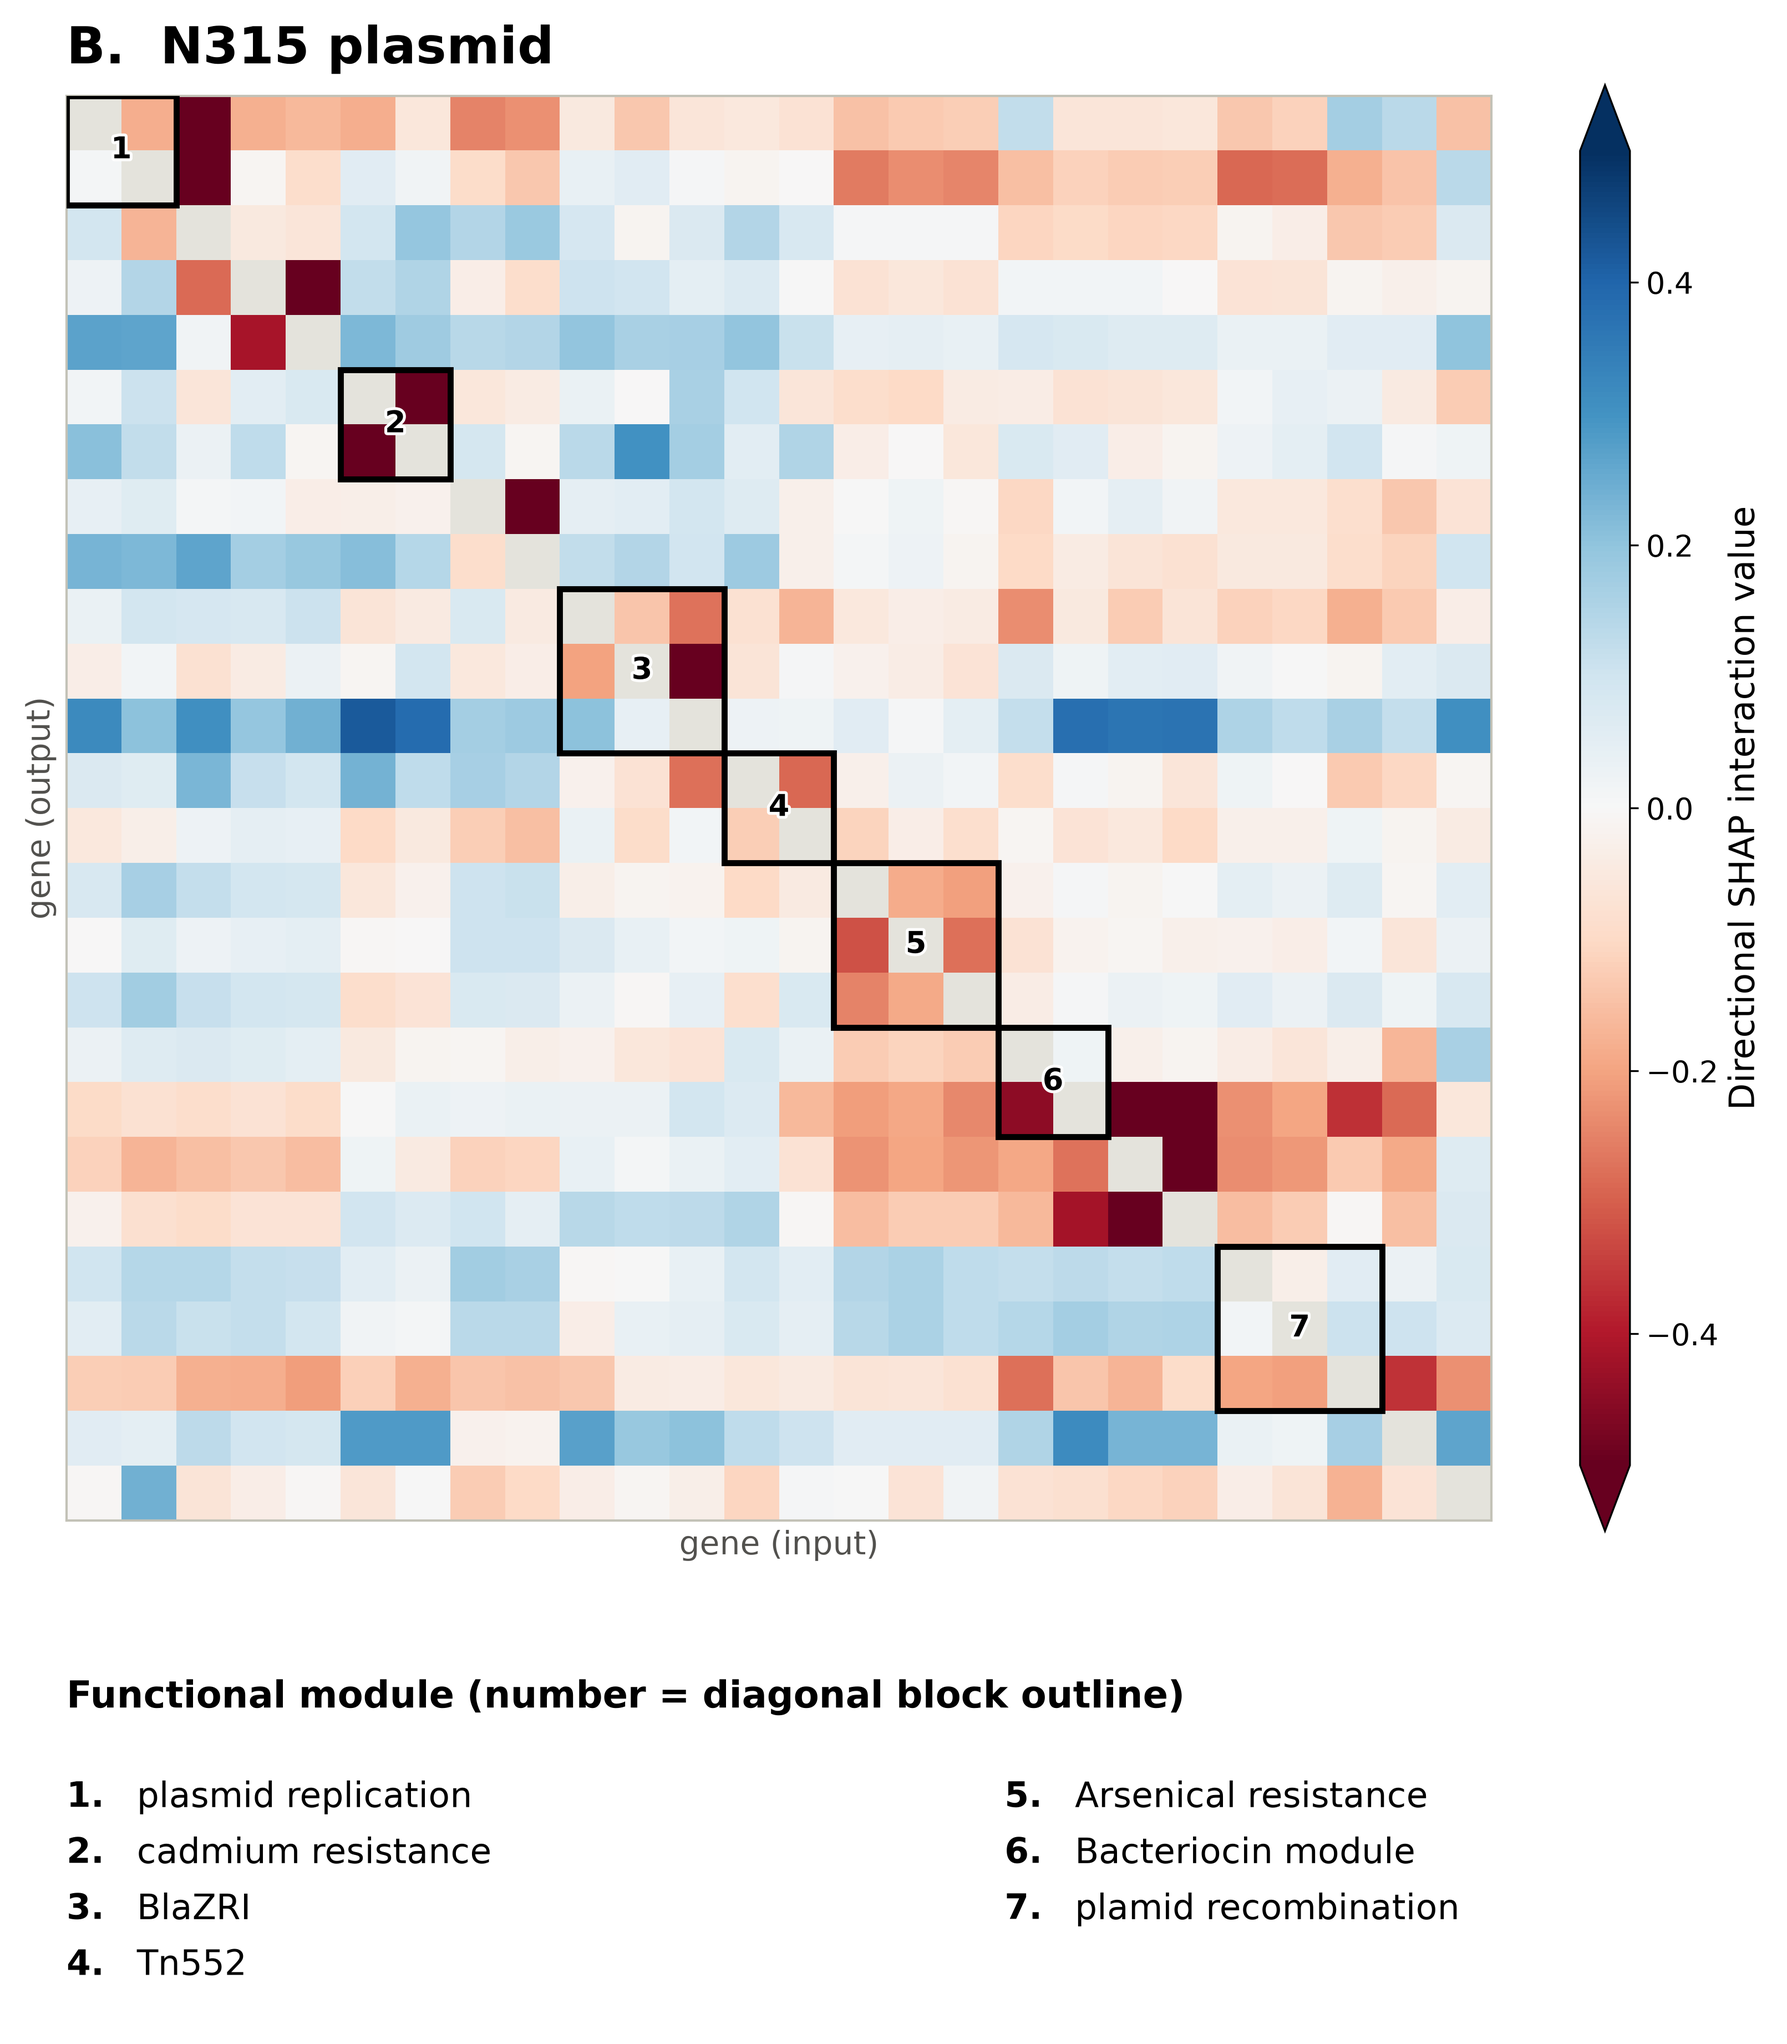
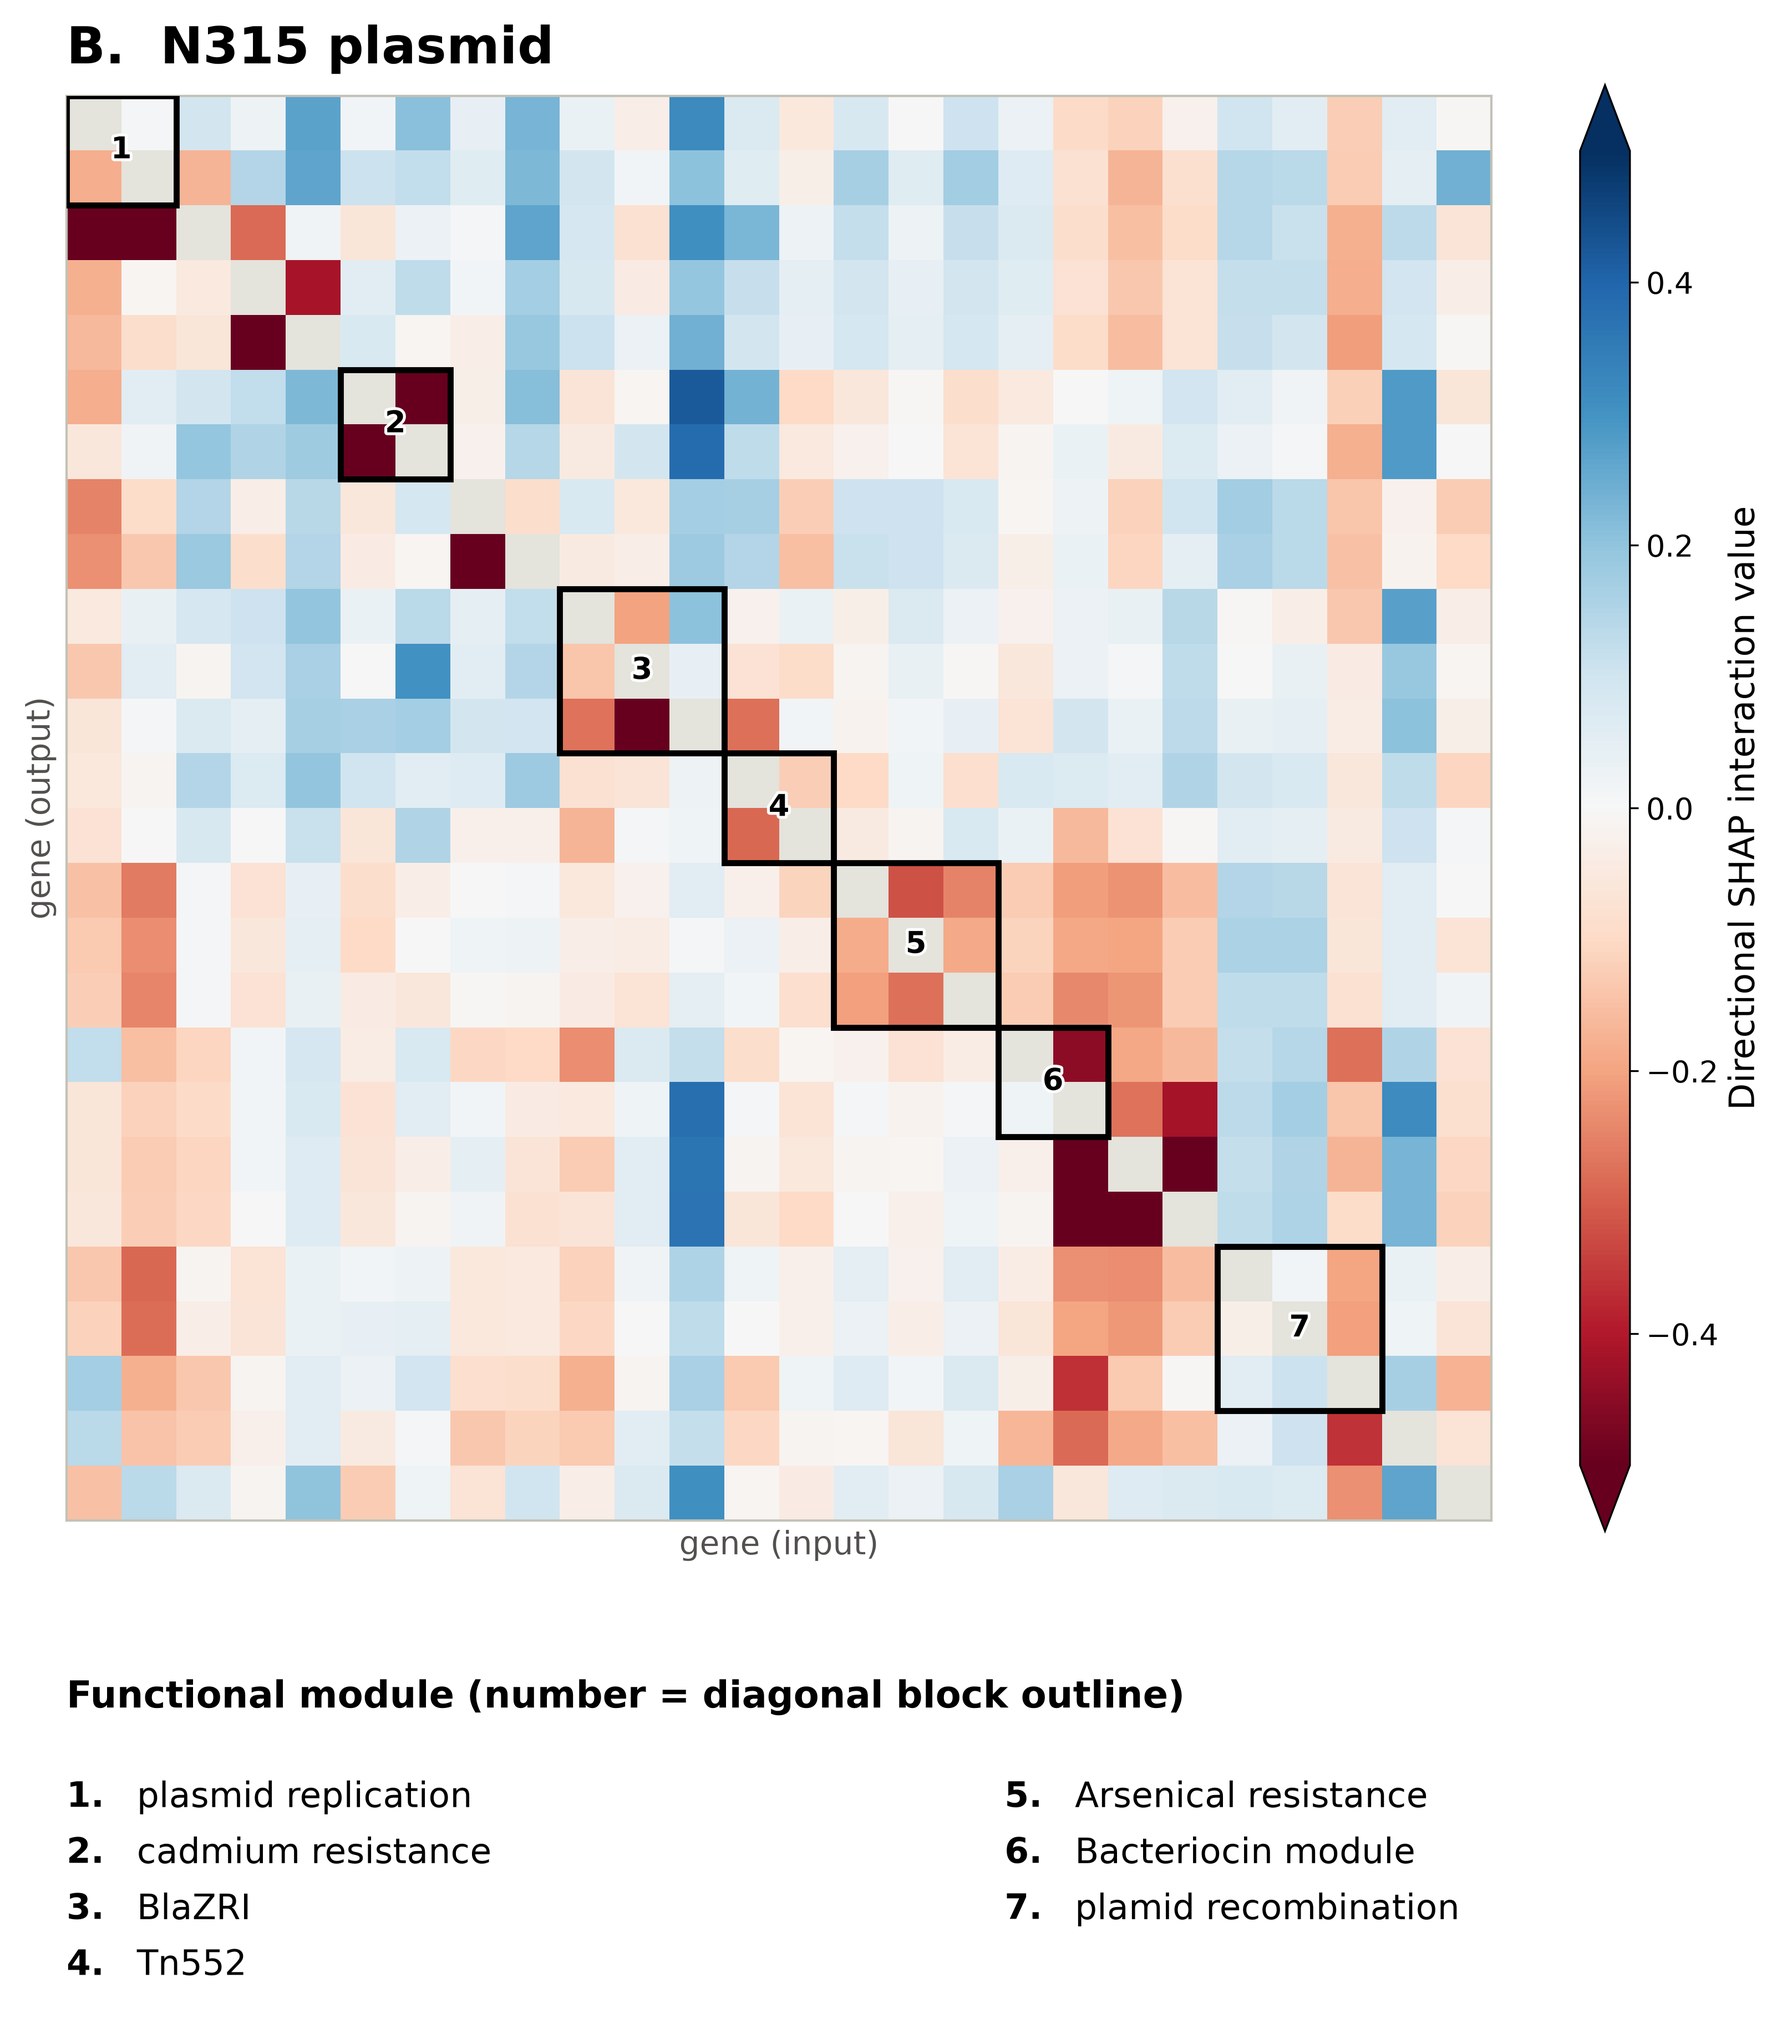
Transpose matrix so input/output axis labels match the data orientation
Excel rows are the input gene and columns the output gene. The matrix
is now transposed at load time so the plotted x-axis (input) and
y-axis (output) actually reflect that layout instead of the reverse.

diff --git a/figures/shap_heatmaps/make_shap_heatmaps.py b/figures/shap_heatmaps/make_shap_heatmaps.py
@@ -99,7 +99,10 @@ def group_blocks(groups: list) -> list:
 def load_panel(spec):
     df = pd.read_excel(spec["file"], sheet_name=spec["sheet"])
     labels = [short_label(n) for n in df["row_gene_name"]]
-    matrix = df.iloc[:, 3:].to_numpy(dtype=float)
+    # Excel rows are the input gene, columns the output gene; transpose so
+    # the plotted x-axis (columns) is input and y-axis (rows) is output,
+    # matching the axis labels.
+    matrix = df.iloc[:, 3:].to_numpy(dtype=float).T
     blocks = group_blocks(df["Group"].tolist())
     return labels, matrix, blocks
 
